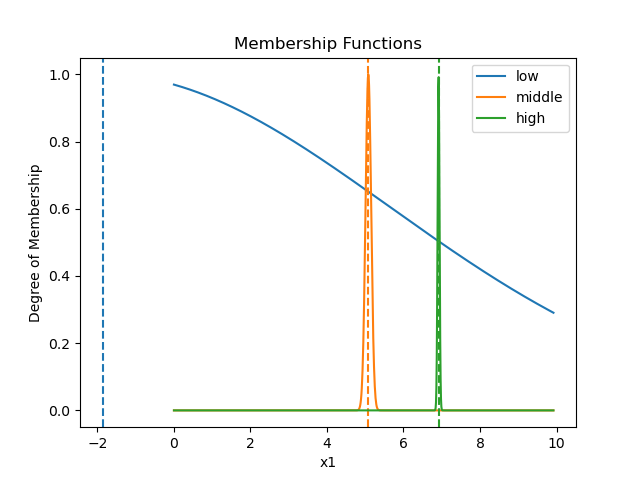
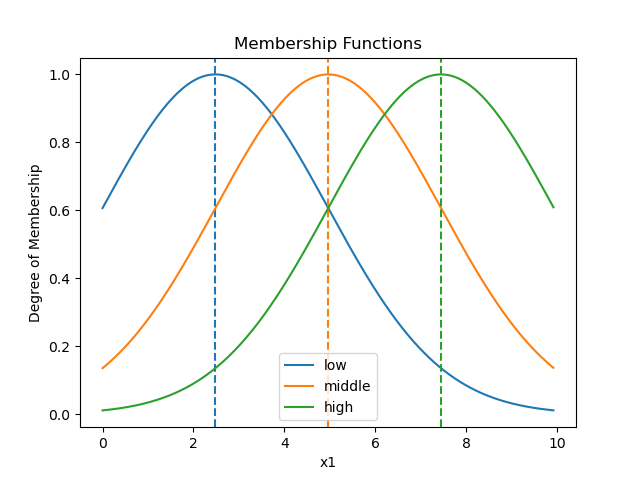
another MF visu hotfix

diff --git a/neurofuzzy_pkg/utils/MFs.py b/neurofuzzy_pkg/utils/MFs.py
@@ -137,6 +137,9 @@ Args:
     c = np.array_split(c, range(n_mfs, len(c), n_mfs))
     w = np.array_split(layer.widths,2)
     w = np.array_split(w, range(n_mfs, len(w), n_mfs))
+
+    c = c[0]
+    w = w[0]
    
     print("c", c)
     print("w", w)
@@ -149,12 +152,15 @@ Args:
         y = {}
 
         for mfID in range(layer.n_mfs):
+            y[mfID] = []
 
 #            print(layer.centers[j+i*layer.n_mfs])
-            y = layer.mf_type(x,c[xID][mfID],w[xID][mfID])
+            for bleh in x:
+                y[mfID].append(layer.mf_type(bleh,c[xID][mfID],w[xID][mfID]))
 
             plt.plot(x, y[mfID], label=mf_names[mfID])
 
+            print("hui", c[xID][mfID])
             plt.axvline(c[xID][mfID],0,1, c=plt.gca().lines[-1].get_color(), ls='--')
 
 
